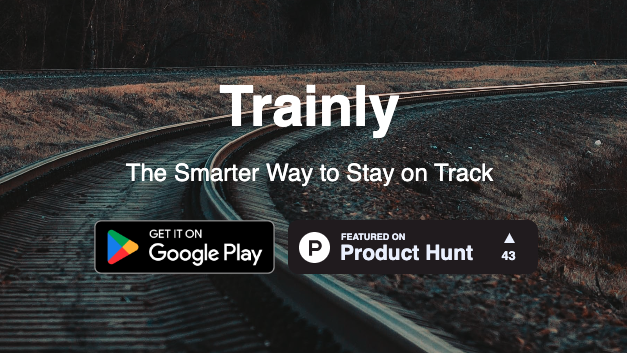
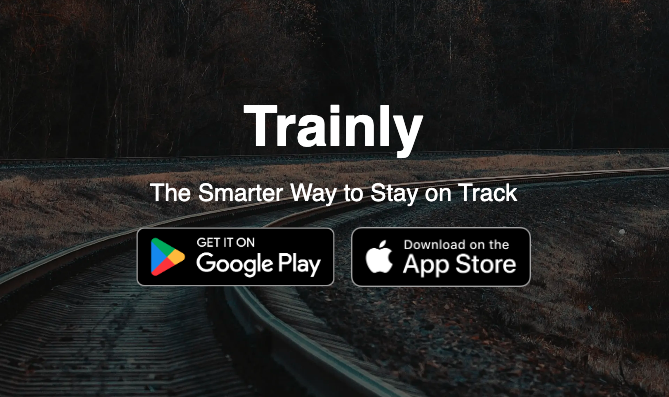
chore: update trainly

diff --git a/index.html b/index.html
@@ -102,7 +102,7 @@
                 <h2>Trainly</h2>
                 <h4>My main project</h4>
 
-                <p>Trainly is an innovative Android (and soon to be iOS) app transforming how you
+                <p>Trainly is an innovative Android and iOS app transforming how you
                     track train journeys in the UK. Beyond typical offerings of other train apps,
                     Trainly features a live map displaying real-time train locations,
                     which helps as a visual indication of how far away the train is. The
